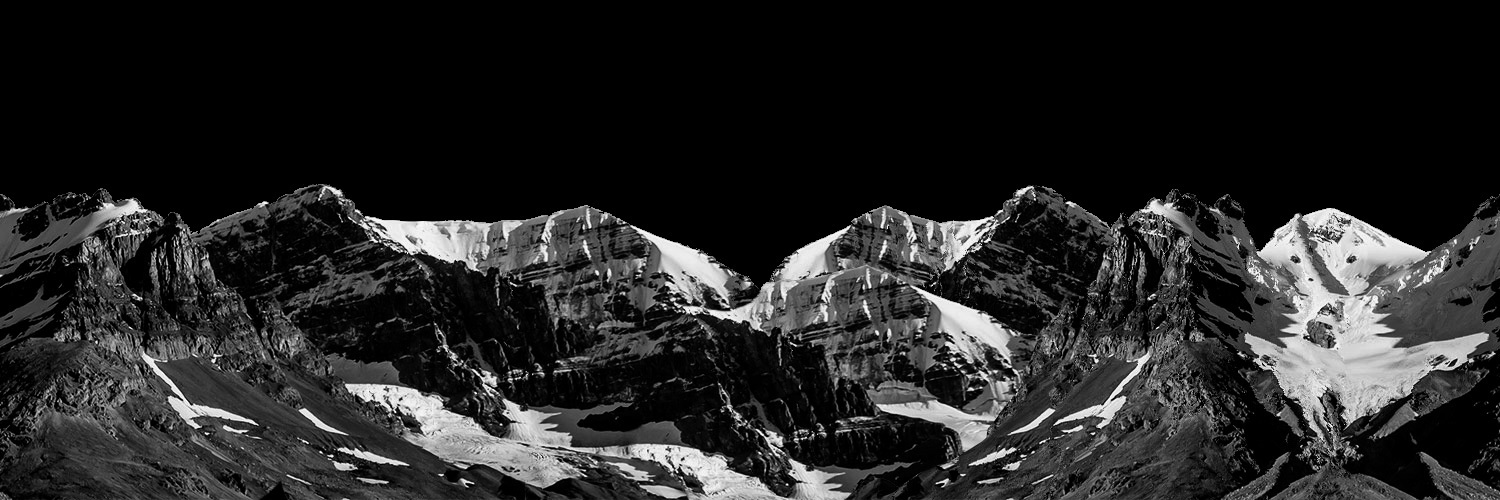
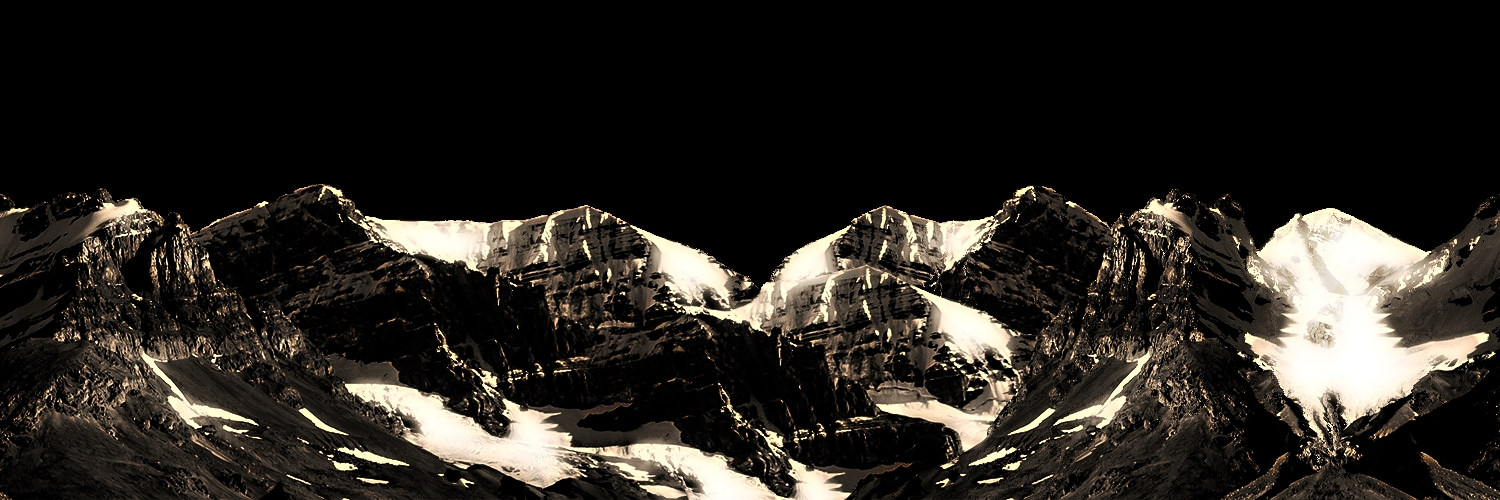
4.0 major, new bg

Changed region(s): [[0.0, 0.36, 1.0, 1.0]]

diff --git a/css/style.css b/css/style.css
@@ -8,7 +8,7 @@
 		color: lime;
 		font-family: 'Source Sans Pro', sans-serif;
 		font-size: 15pt;
-		font-weight: 300 !important;
+		font-weight: 800 !important;
 		letter-spacing: -0.025em;
 		line-height: 1.75em;
 	}
@@ -356,6 +356,7 @@
 		background-image: -o-linear-gradient(top, rgba(0,0,0,0), rgba(0,0,0,0.5) 75%);
 		background-image: -ms-linear-gradient(top, rgba(0,0,0,0), rgba(0,0,0,0.5) 75%);
 		background-image: linear-gradient(top, rgba(0,0,0,0), rgba(0,0,0,0.5) 75%);
+		color: white;
 		bottom: 0;
 		cursor: default;
 		height: 6em;

diff --git a/index.html b/index.html
@@ -106,7 +106,7 @@
 			<footer id="footer">
 				<span class="copyright">
 					<script>
-						window.footer.innerHTML = "<p>Copyright © " + new Date().getFullYear() + " <a href='http://www.benmward.com'>Benjamin M. Ward</a></p>";
+						window.footer.innerHTML = "<p>Copyright © " + new Date().getFullYear() + " <a href='http://www.benmward.com'>Benjamin M. Ward</a>&nbsp;&nbsp;|&nbsp;&nbsp;Version 4.0</p>";
 					</script>
 				</span>
 			</footer>
